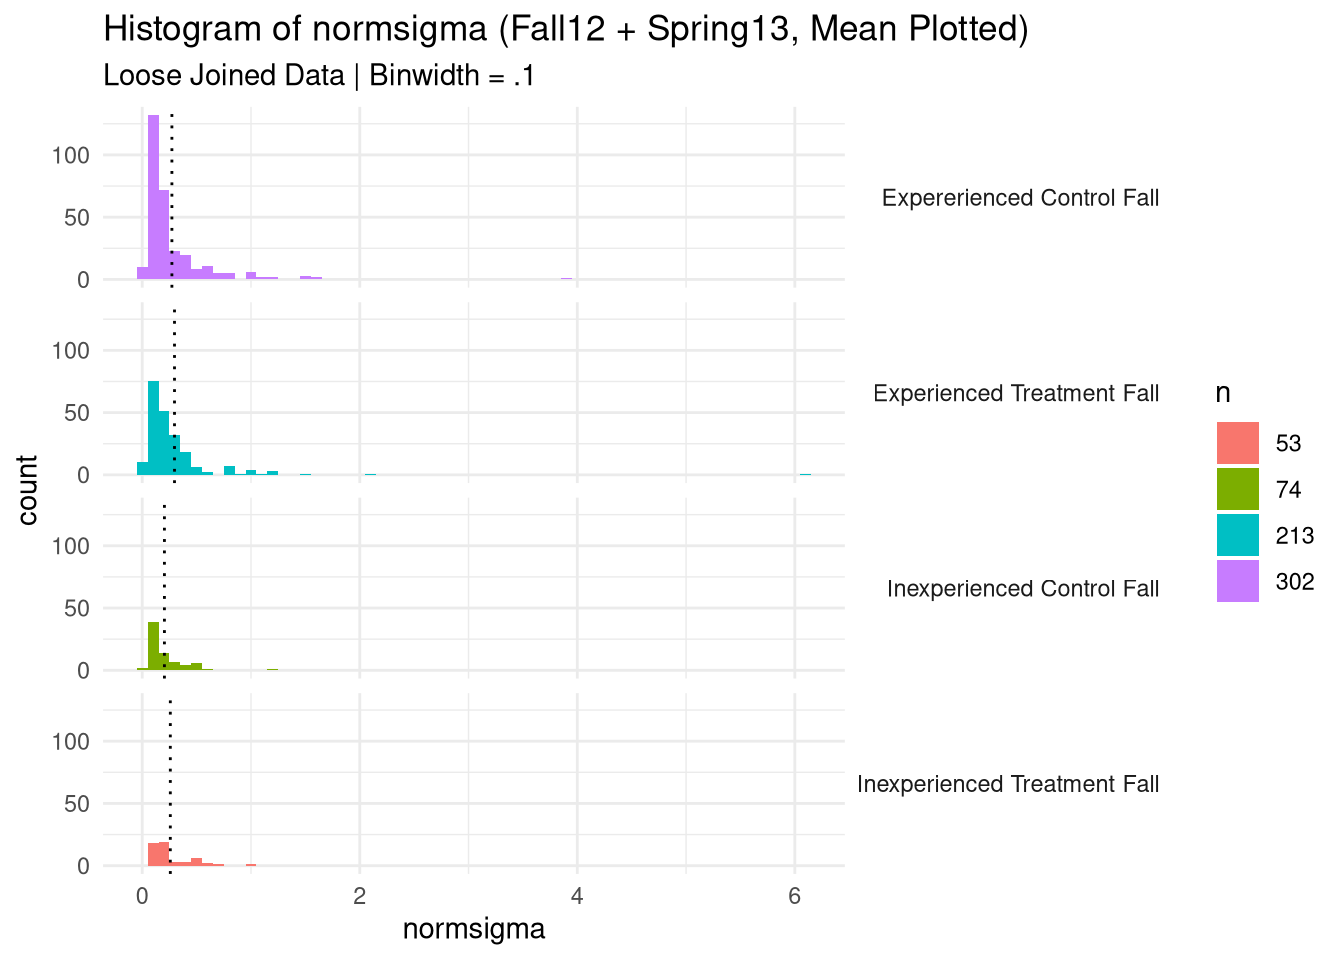
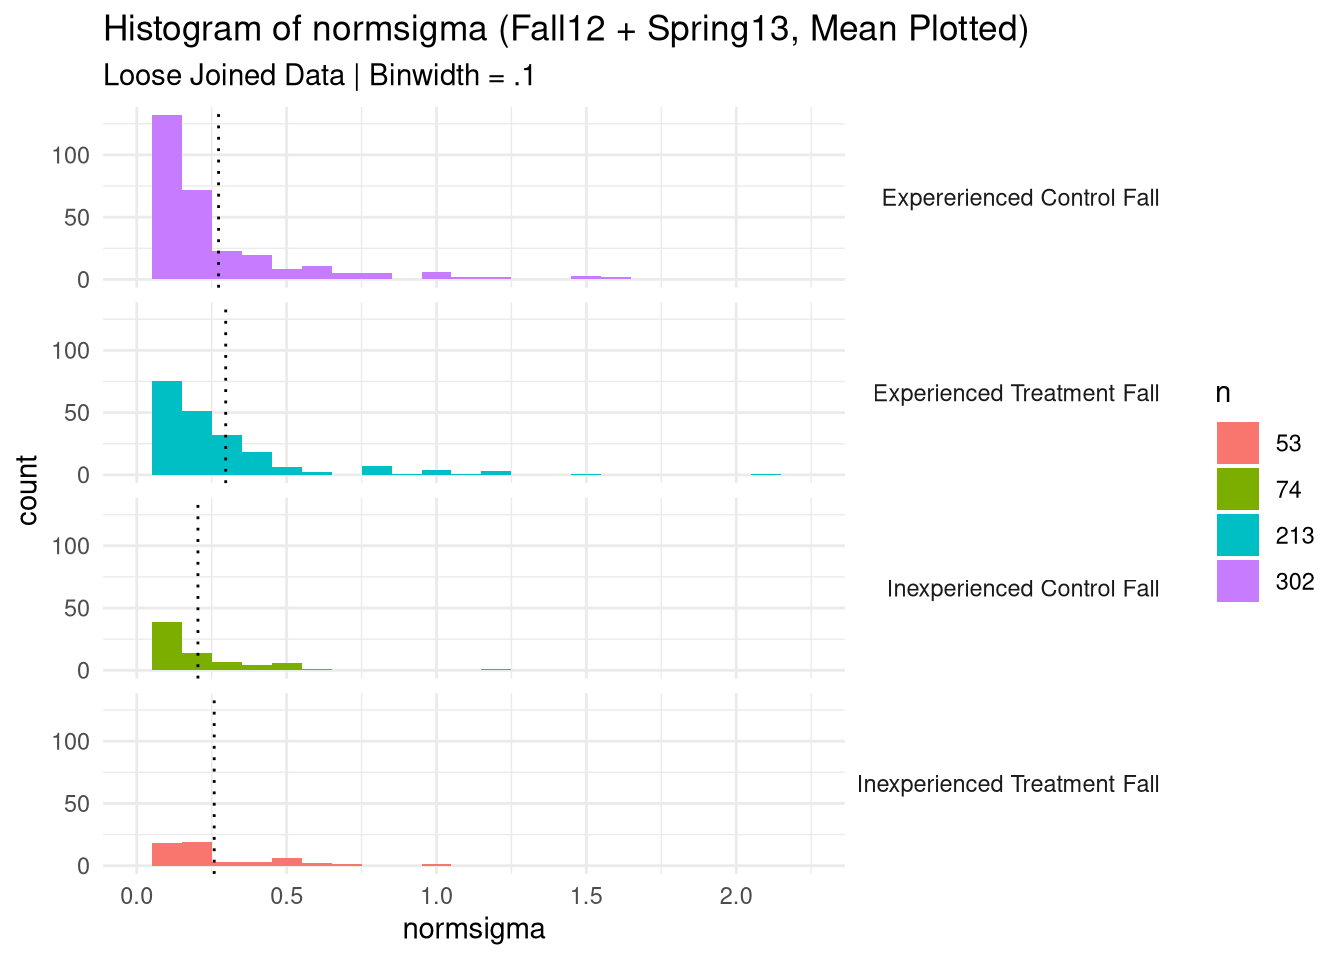
Build site.

diff --git a/docs/summaryStats.html b/docs/summaryStats.html
@@ -413,7 +413,7 @@ div.tocify {
 <div class="tab-content">
 <div id="summary" class="tab-pane fade in active">
 <p>
-<strong>Last updated:</strong> 2020-05-19
+<strong>Last updated:</strong> 2020-05-21
 </p>
 <p>
 <strong>Checks:</strong> <span class="glyphicon glyphicon-ok text-success" aria-hidden="true"></span> 7 <span class="glyphicon glyphicon-exclamation-sign text-danger" aria-hidden="true"></span> 0
@@ -504,16 +504,16 @@ This reproducible <a href="http://rmarkdown.rstudio.com">R Markdown</a> analysis
 <div class="panel panel-default">
 <div class="panel-heading">
 <p class="panel-title">
-<a data-toggle="collapse" data-parent="#workflowr-checks" href="#strongRepositoryversionstrongahrefhttpsgithubcomshugamoecleanittreee77fd2e719065828b3fc67fca167638b45e28031targetblanke77fd2ea"> <span class="glyphicon glyphicon-ok text-success" aria-hidden="true"></span> <strong>Repository version:</strong> <a href="https://github.com/shugamoe/cleanit/tree/e77fd2e719065828b3fc67fca167638b45e28031" target="_blank">e77fd2e</a> </a>
+<a data-toggle="collapse" data-parent="#workflowr-checks" href="#strongRepositoryversionstrongahrefhttpsgithubcomshugamoecleanittree57ac17a29eb2e8e868396b844d74c0d62b3e2591targetblank57ac17aa"> <span class="glyphicon glyphicon-ok text-success" aria-hidden="true"></span> <strong>Repository version:</strong> <a href="https://github.com/shugamoe/cleanit/tree/57ac17a29eb2e8e868396b844d74c0d62b3e2591" target="_blank">57ac17a</a> </a>
 </p>
 </div>
[2 lines of base64/hex data omitted]
 <div class="panel-body">
 <p>
 Great! You are using Git for version control. Tracking code development and connecting the code version to the results is critical for reproducibility.
 </p>
 <p>
-The results in this page were generated with repository version <a href="https://github.com/shugamoe/cleanit/tree/e77fd2e719065828b3fc67fca167638b45e28031" target="_blank">e77fd2e</a>. See the <em>Past versions</em> tab to see a history of the changes made to the R Markdown and HTML files.
+The results in this page were generated with repository version <a href="https://github.com/shugamoe/cleanit/tree/57ac17a29eb2e8e868396b844d74c0d62b3e2591" target="_blank">57ac17a</a>. See the <em>Past versions</em> tab to see a history of the changes made to the R Markdown and HTML files.
 </p>
 <p>
 Note that you need to be careful to ensure that all relevant files for the analysis have been committed to Git prior to generating the results (you can use <code>wflow_publish</code> or <code>wflow_git_commit</code>). workflowr only checks the R Markdown file, but you know if there are other scripts or data files that it depends on. Below is the status of the Git repository when the results were generated:
@@ -570,6 +570,40 @@ Message
 </tr>
 </thead>
 <tbody>
+<tr>
+<td>
+Rmd
+</td>
+<td>
+<a href="https://github.com/shugamoe/cleanit/blob/57ac17a29eb2e8e868396b844d74c0d62b3e2591/analysis/summaryStats.Rmd" target="_blank">57ac17a</a>
+</td>
+<td>
+Julian McClellan
+</td>
+<td>
+2020-05-21
+</td>
+<td>
+Scales adjusted appropriately for normmu and normsigma
+</td>
+</tr>
+<tr>
+<td>
+html
+</td>
+<td>
+<a href="https://rawcdn.githack.com/shugamoe/cleanit/f3c36fdd4fcdd7ed4592374f1f0ef9765ece5c6e/docs/summaryStats.html" target="_blank">f3c36fd</a>
+</td>
+<td>
+Julian McClellan
+</td>
+<td>
+2020-05-19
+</td>
+<td>
+Build site.
+</td>
+</tr>
 <tr>
 <td>
 Rmd
